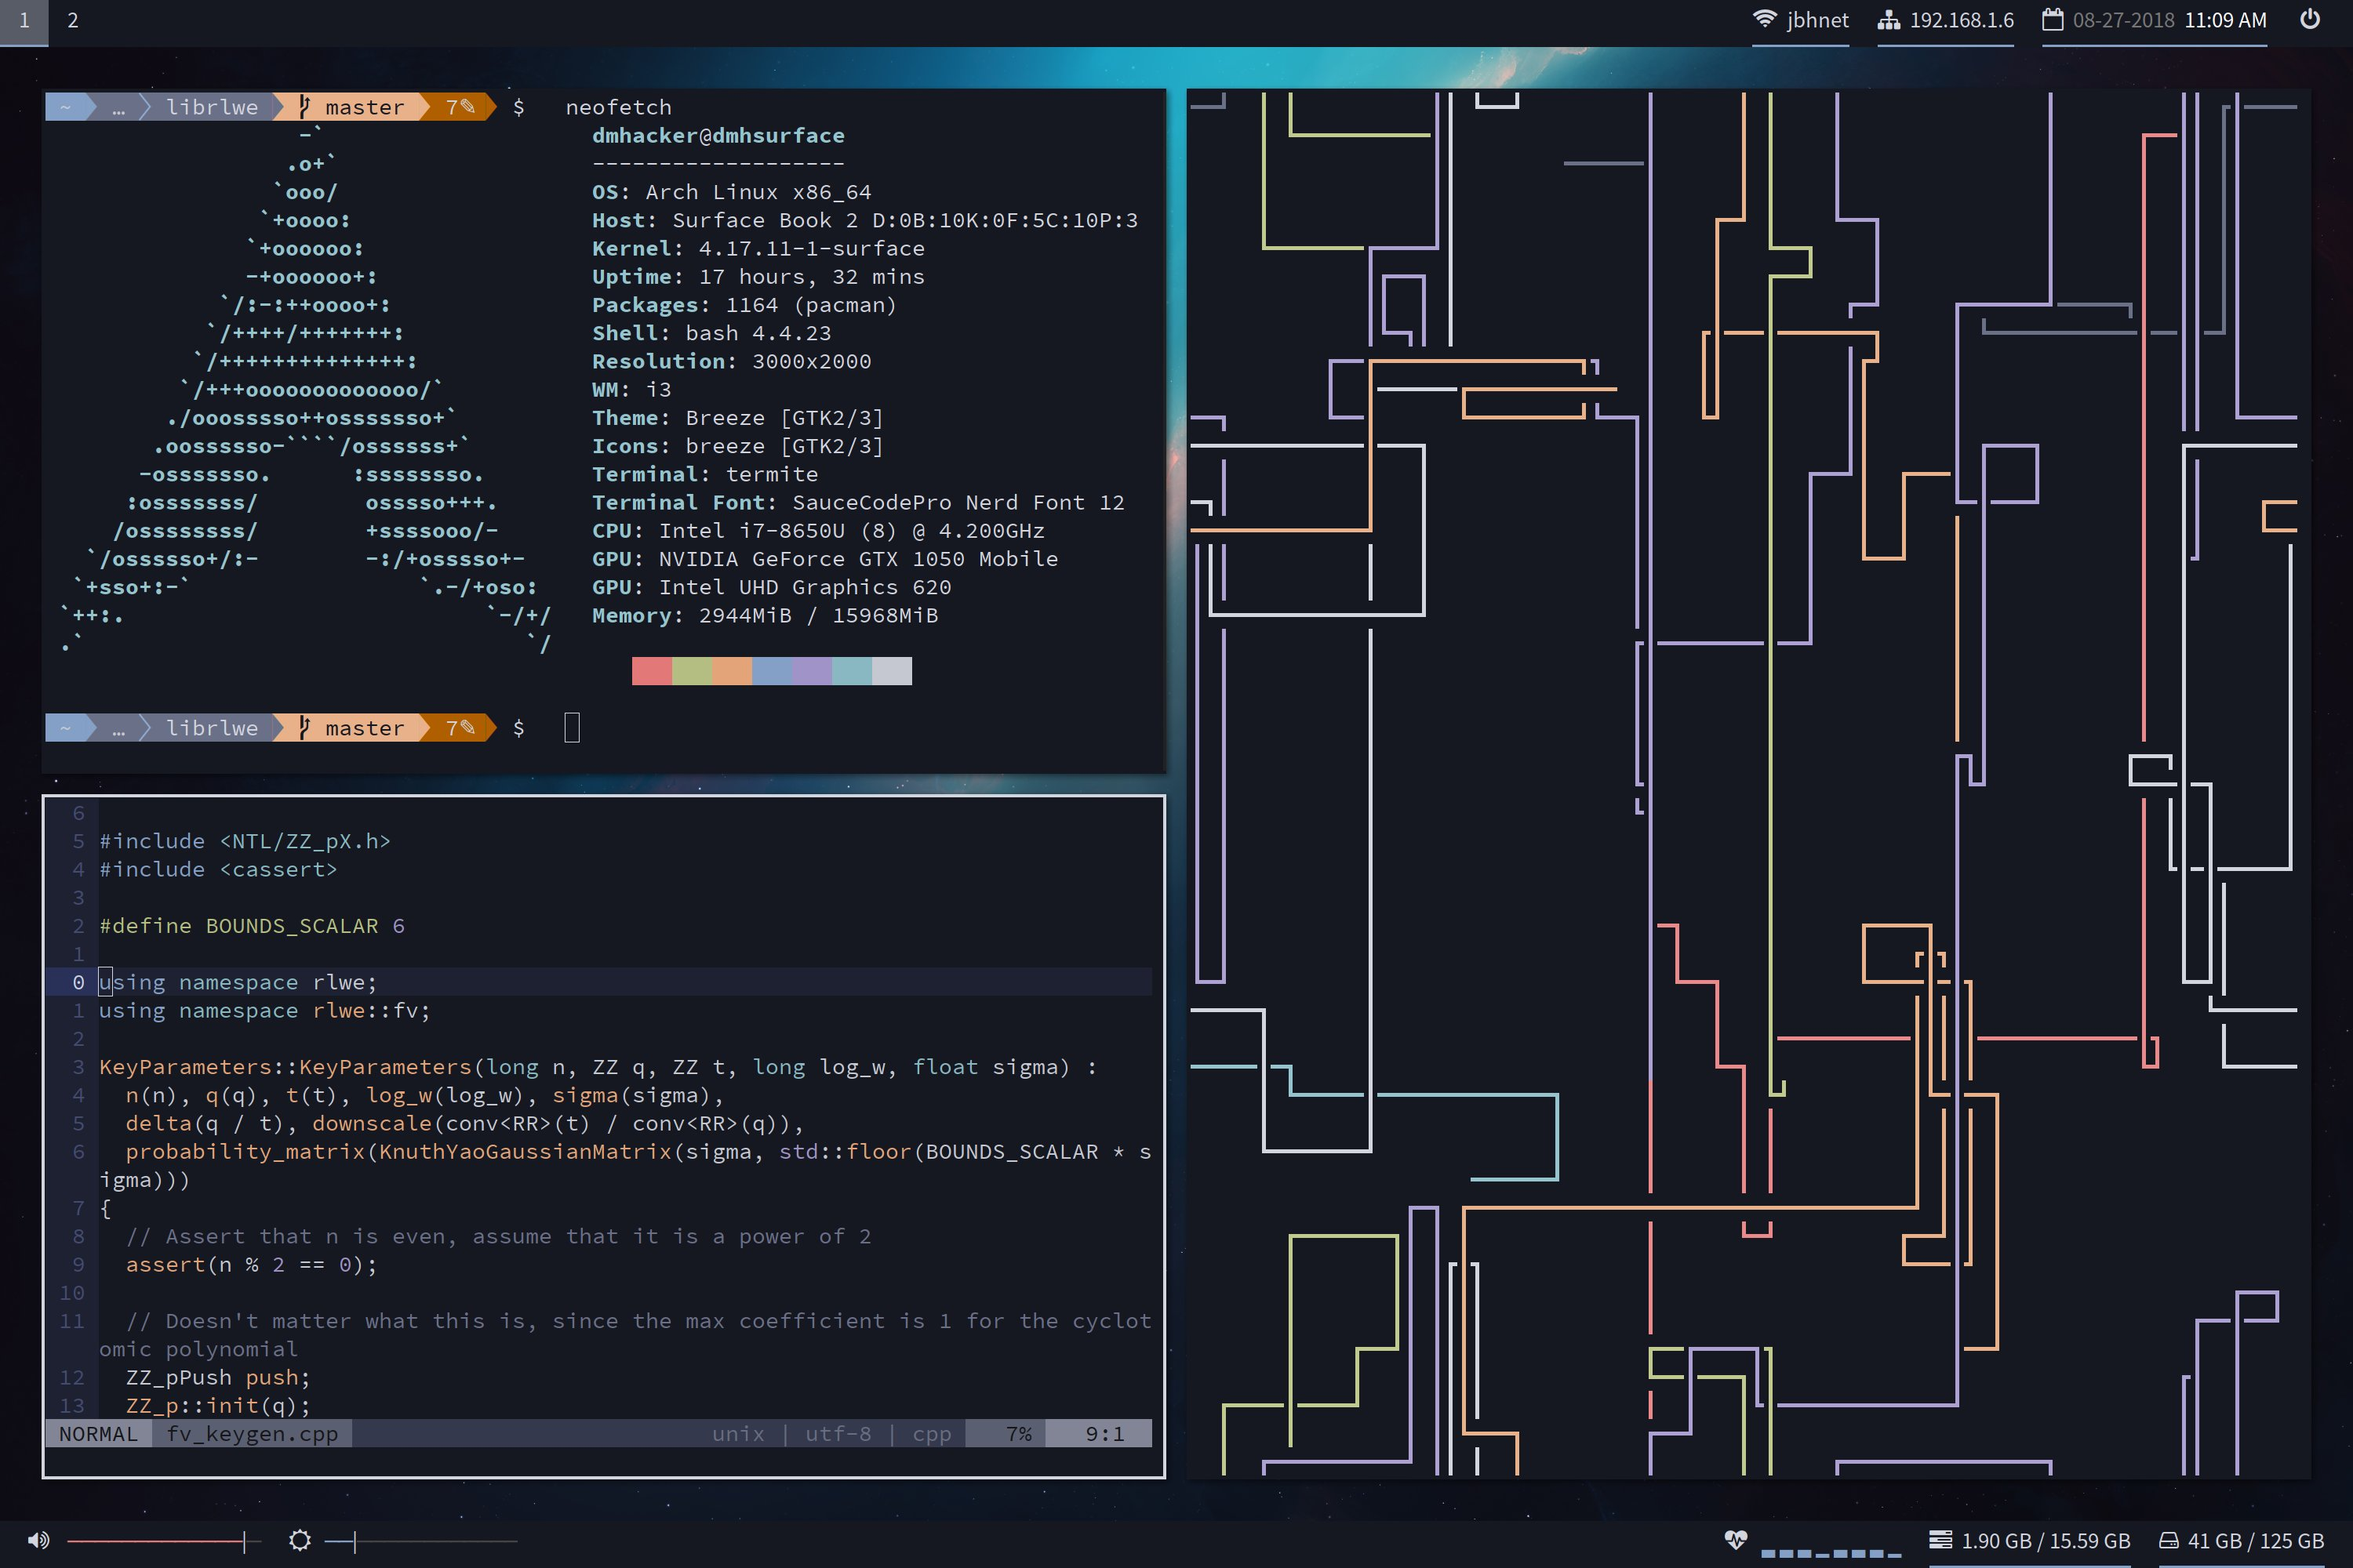
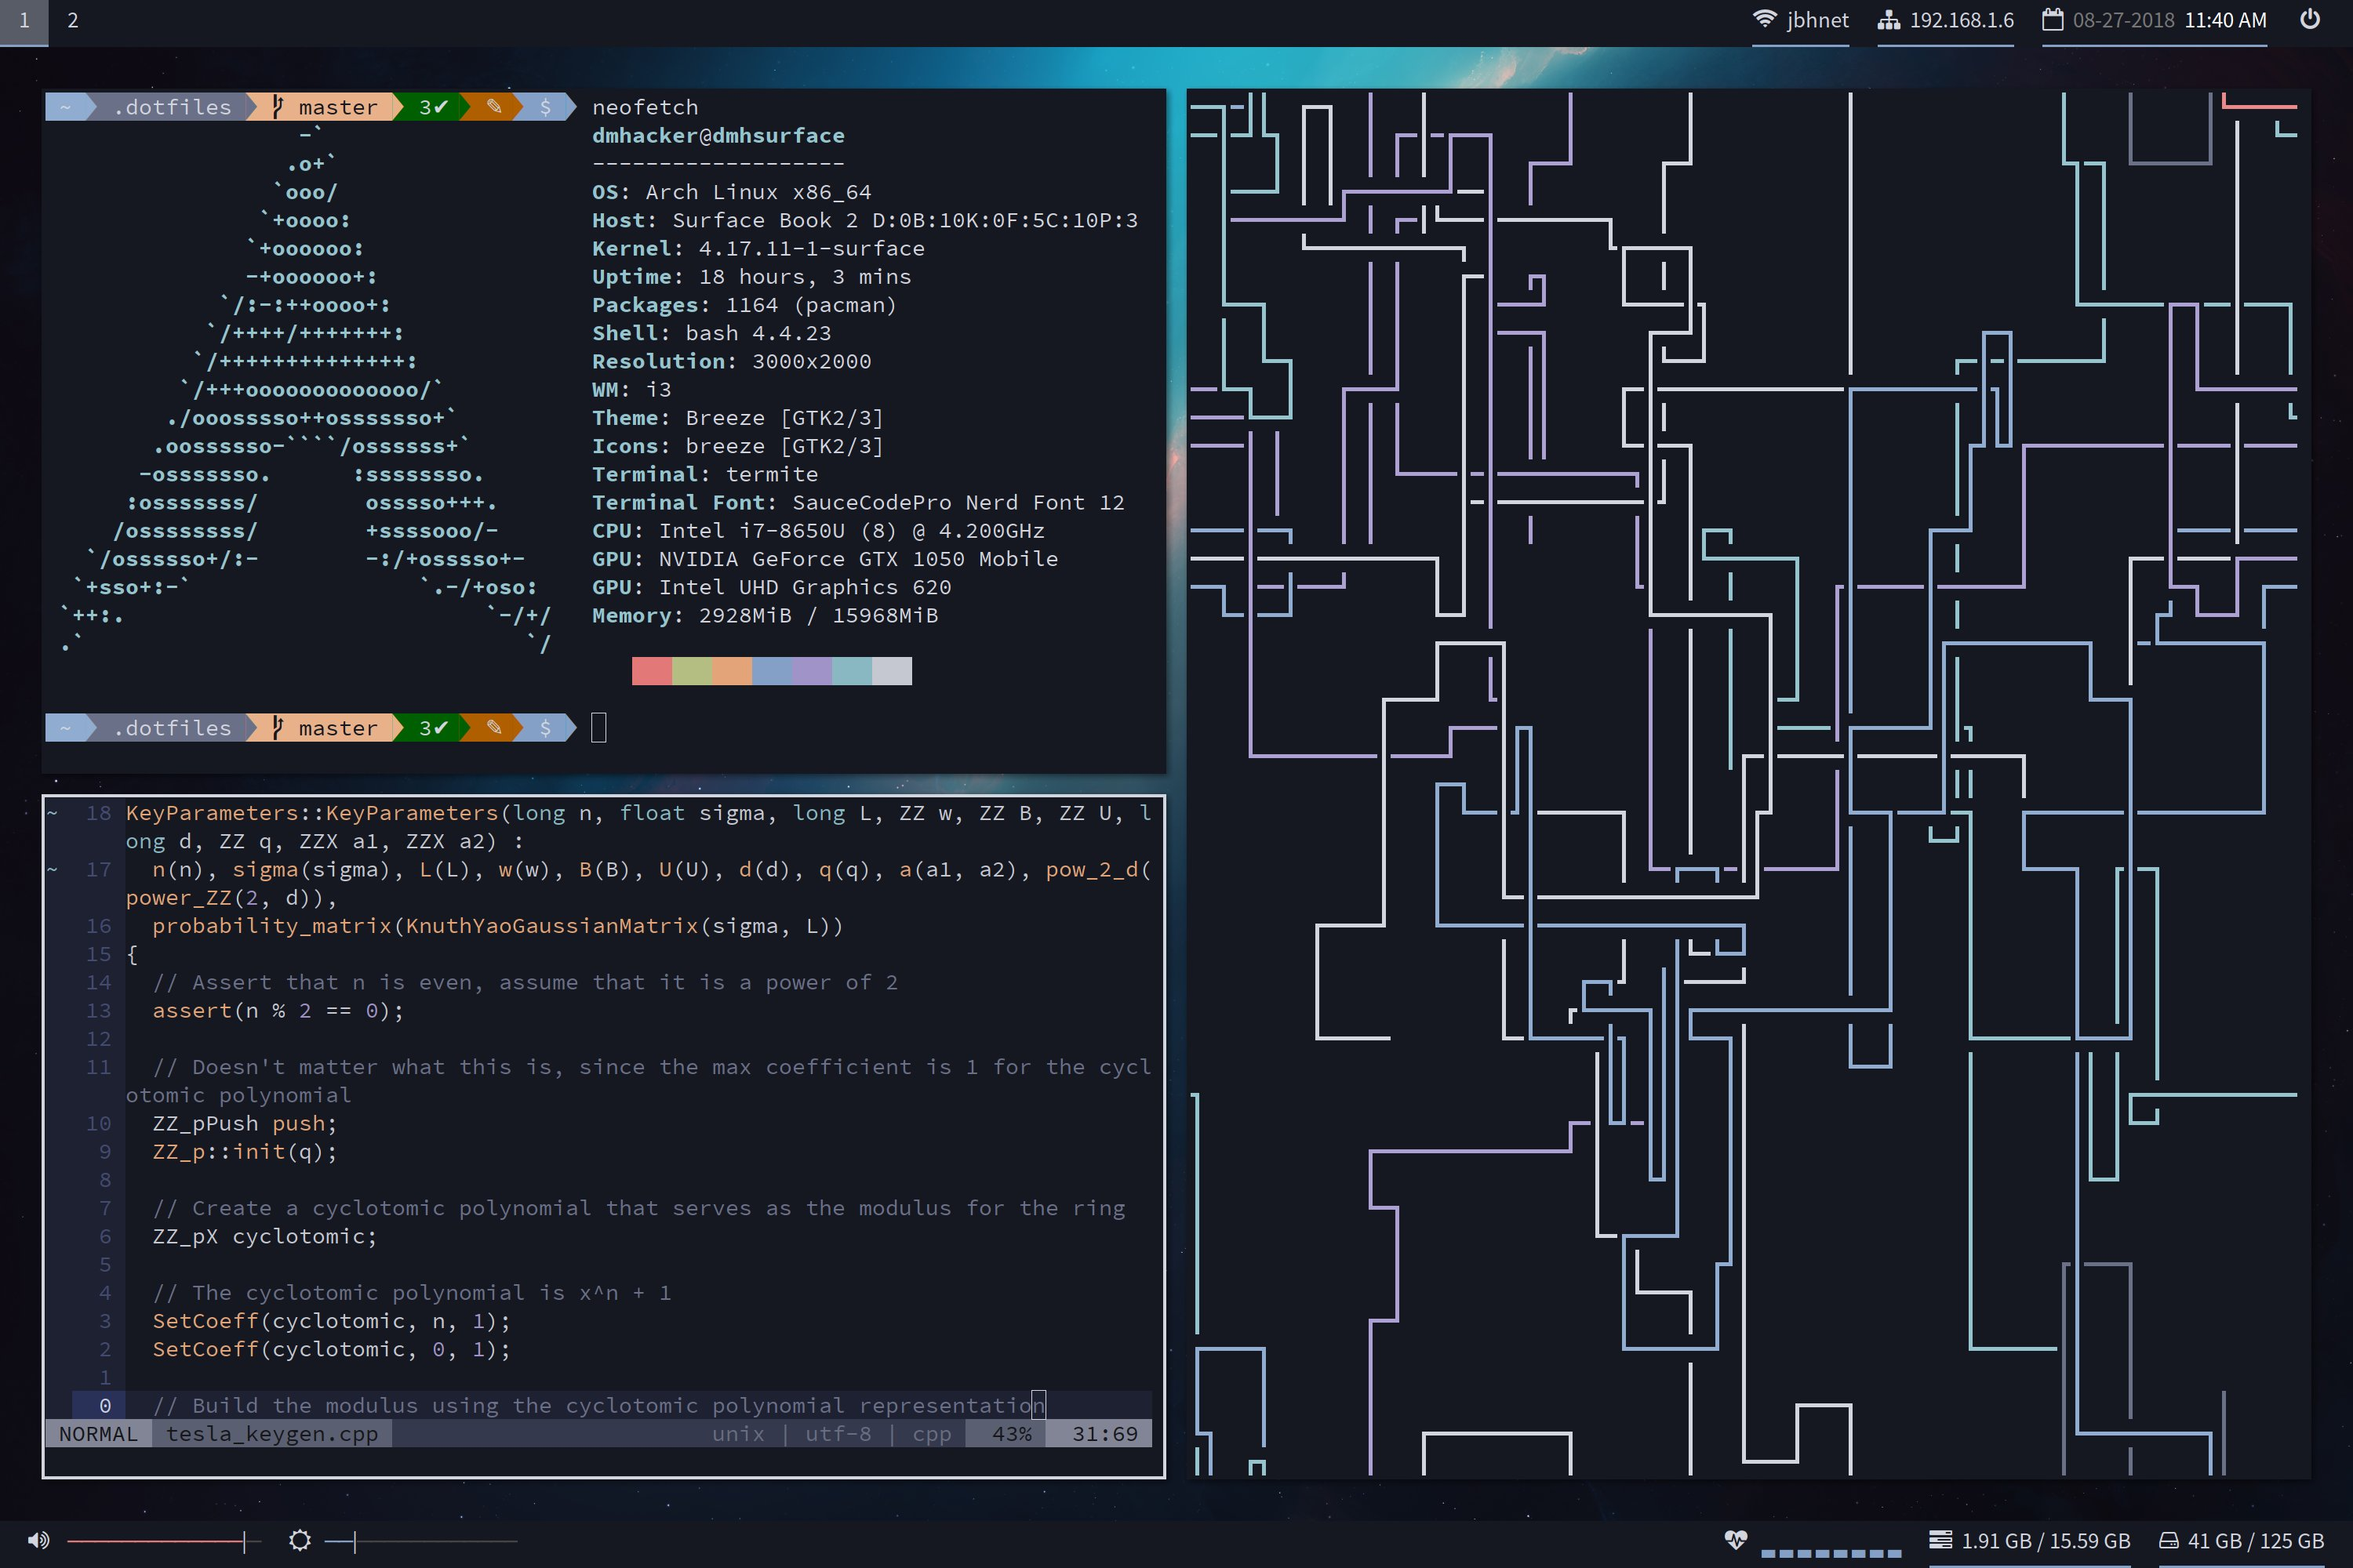
Update powerline-shell bar to reflect new theme

diff --git a/.config/powerline-shell/themes/iceberg.py b/.config/powerline-shell/themes/iceberg.py
@@ -11,8 +11,8 @@ class Color(DefaultColor):
     """ cwd segment """
 
     HOME_SPECIAL_DISPLAY = True
-    HOME_BG = 4
-    HOME_FG = 7
+    HOME_BG = 12
+    HOME_FG = 15
     PATH_BG = 8
     PATH_FG = 7 
     CWD_FG = 15
@@ -36,7 +36,7 @@ class Color(DefaultColor):
 
     """ root segment """
 
-    CMD_PASSED_BG = 0
+    CMD_PASSED_BG = 4
     CMD_PASSED_FG = 15
     CMD_FAILED_BG = 1
     CMD_FAILED_FG = 15
